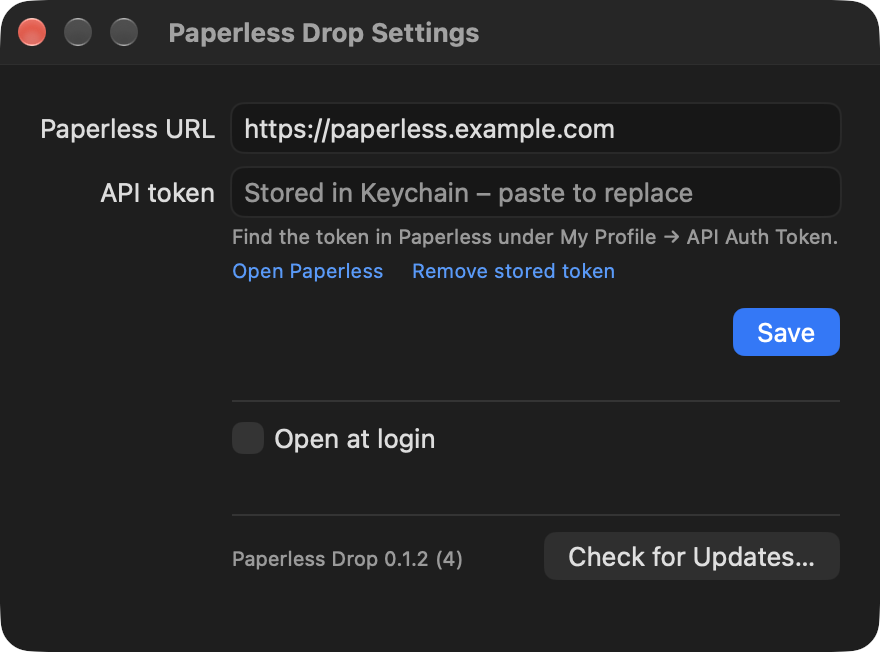
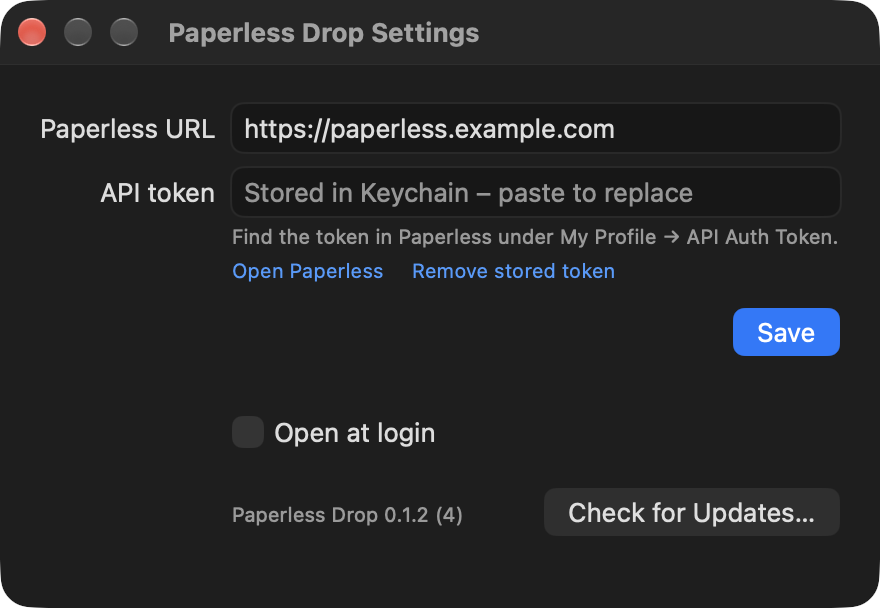
Drop the divider lines in Settings and even out the spacing

diff --git a/Sources/SettingsView.swift b/Sources/SettingsView.swift
@@ -30,8 +30,6 @@ struct SettingsView: View {
             }
             .padding(.top, 4)
 
-            Divider().padding(.vertical, 4)
-
             // Unlike the fields above, this applies at once and has nothing to do with Save.
             VStack(alignment: .leading, spacing: 2) {
                 Toggle("Open at login", isOn: Binding(
@@ -43,11 +41,10 @@ struct SettingsView: View {
                     .foregroundStyle(.red)
                     .lineLimit(1)
                     .help(model.loginNote ?? "")
-                    .frame(height: 16, alignment: .topLeading)
+                    .frame(height: 14, alignment: .topLeading)
                     .accessibilityHidden(model.loginNote == nil) // don't read out the blank placeholder
             }
-
-            Divider().padding(.vertical, 4)
+            .padding(.top, 12)
 
             updateFooter
         }
